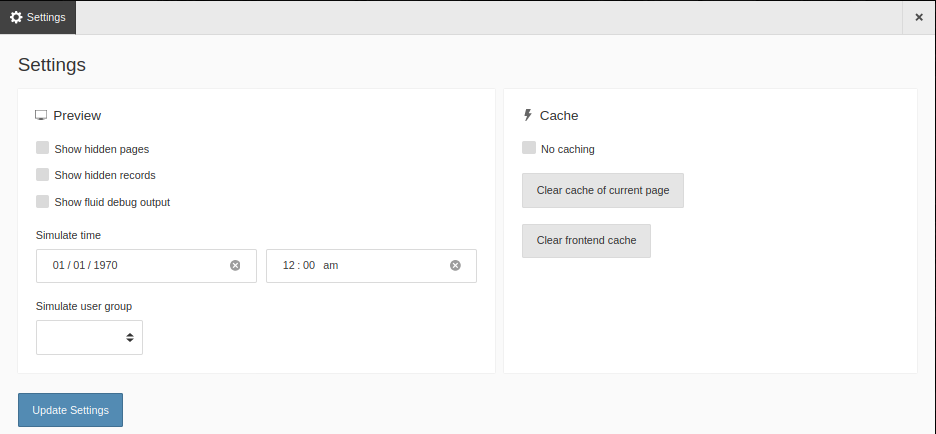
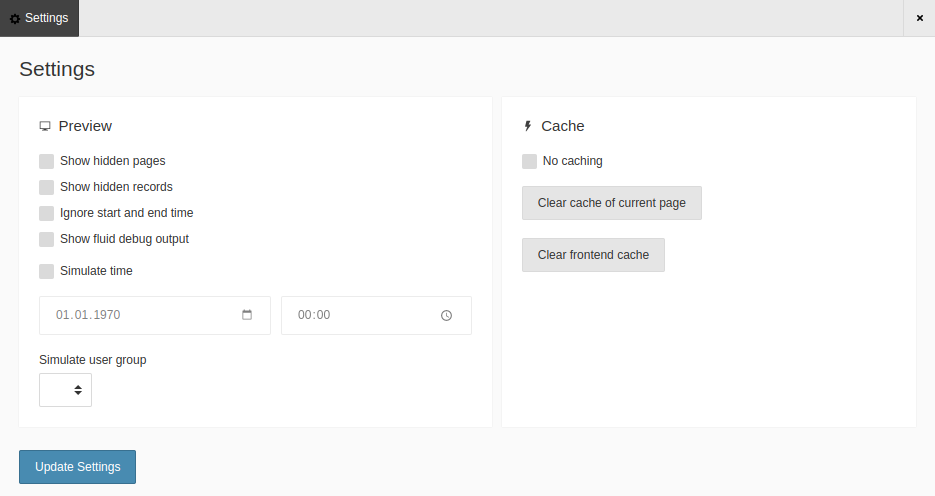
[DOCS] Add option "Ignore start and end time" to admin panel docs
Related: #91082
Resolves: #99487
Resolves: https://github.com/TYPO3-Documentation/Changelog-To-Doc/issues/22
Releases: main

diff --git a/Documentation/Settings/Index.rst b/Documentation/Settings/Index.rst
@@ -25,6 +25,9 @@ Show hidden content
 Use :guilabel:`Show hidden pages` and :guilabel:`Show hidden records` to
 reload the page and see any content that is set to 'disabled' in the backend.
 
+The :guilabel:`Ignore start and end time` to view all records on a page
+regardless of the start and end time.
+
 The :guilabel:`Show fluid debug output` reloads the page with an overlay
 indicating the Fluid sections and partials in use.
 
